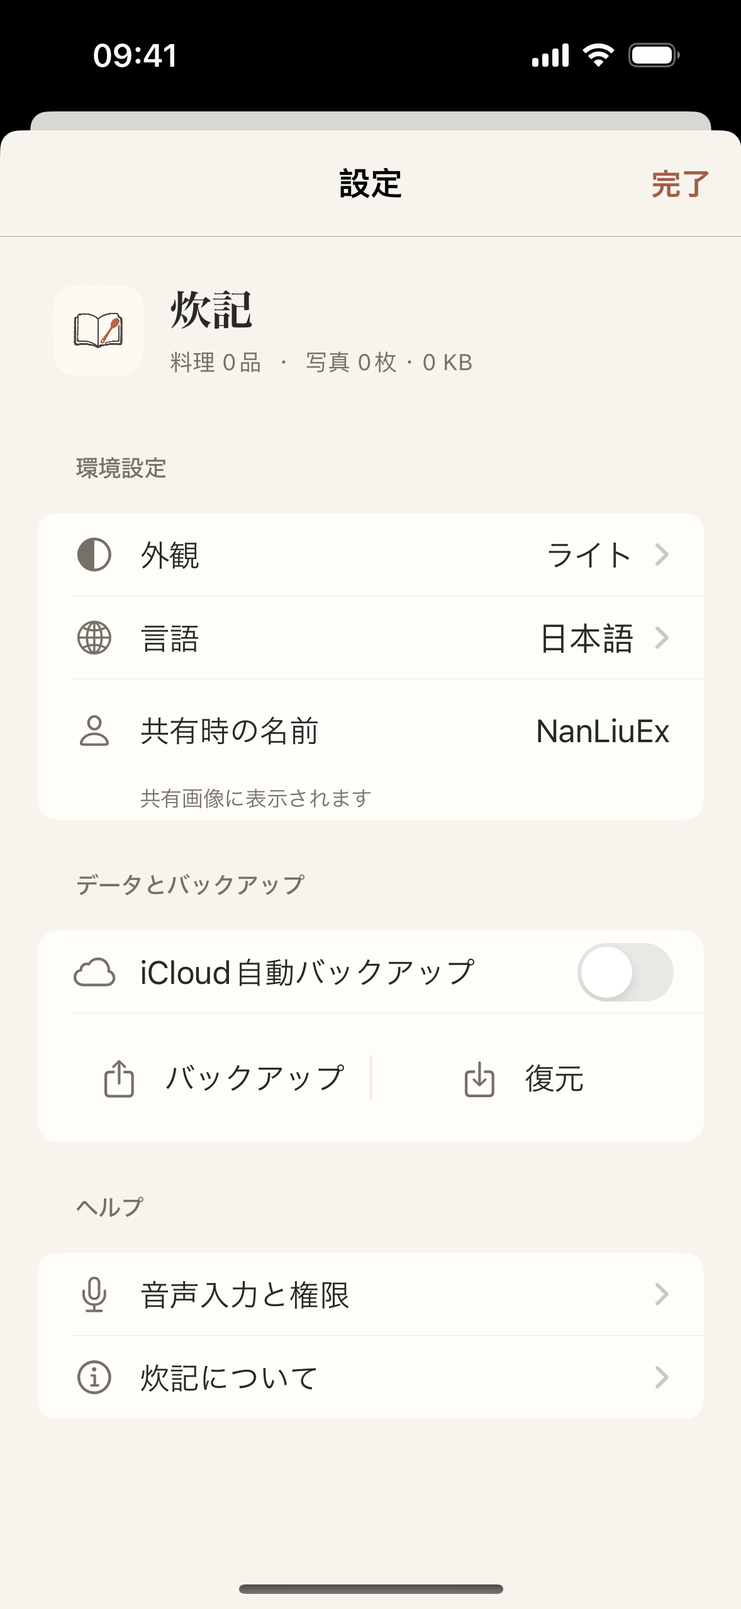
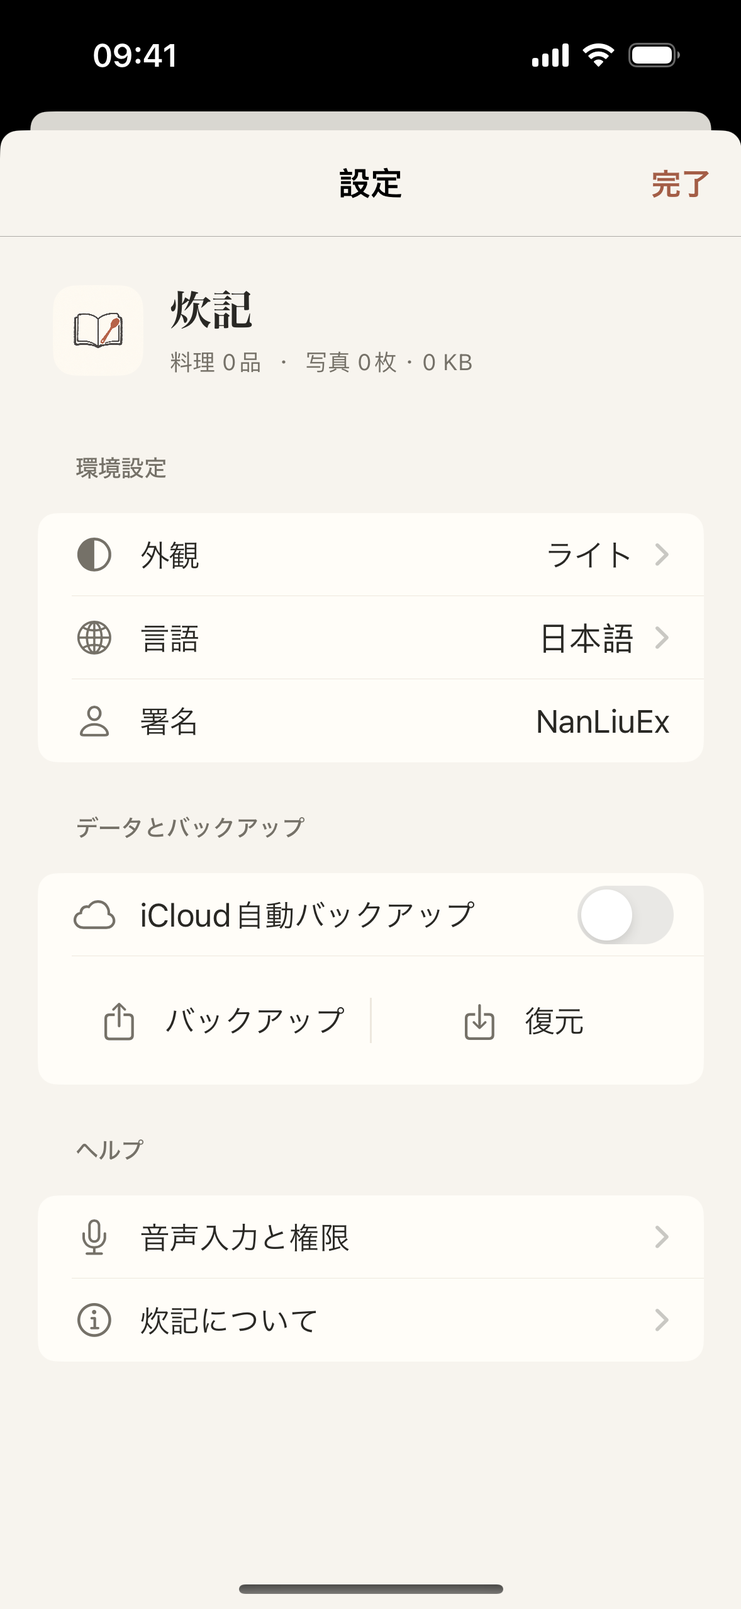
docs: refresh simplified signature settings

diff --git a/assets/site.js b/assets/site.js
@@ -1,4 +1,4 @@
-const copy = {"zh": {"name": "炊记", "nav": ["产品", "隐私", "支持"], "footer": "© 2026 liunangit · 炊记", "index": {"eyebrow": "一本自己的厨房笔记", "title": "记下拿手菜，\n留住自己的做法。", "lead": "一张照片，几行笔记。用量、火候和摸索出来的小心得，都留在自己的菜谱里。下次想做，再翻开。", "meta": "iPhone · iPad · iPhone Duo / iOS 17+ / 中文 · English · 日本語", "sections": [["照片与文字，恰到好处", "记录成品或过程照片，把配料、步骤和心得写在一处。主页用小图浏览，详情安静地阅读。"], ["想到就说出来", "按住说话时实时转文字，松开后直接校正。设备支持时仅使用本机识别，不保存录音，不切换到云端识别。"], ["自己的做法，随时找回", "搜索菜名或做法中的关键词，快速找回笔记。编辑同一道菜，不必重复记录。"], ["让一道菜被看见", "将菜名、照片与完整做法排成菜谱图片，再通过系统分享面板分享。长文会自动分页。 设置中的“分享署名”可填写最多8个字，名字显示在分享图片左上角的菜谱标记后；留空不显示。"], ["换设备，也带上菜谱", ".cuijibackup 备份把照片与文字一起打包。开启 iCloud 自动备份后，新增、编辑、删除都会更新同一份备份，其他设备开启后自动合并自己的菜谱。"], ["简洁，有自己的分寸", "暖纸色、克制的陶土色和清晰的阅读层次。支持深色、大字体和大屏双栏，不添加广告或社交流。"]], "note": "目前正在准备 App Store 上架。iCloud 为单份自动备份，并非双向实时同步；也可关闭 iCloud，自行导出和导入。本机语音需设备支持对应语言。", "screenshots": ["菜谱首页", "一道菜的做法", "简洁的设置与备份"]}, "privacy": {"eyebrow": "PRIVACY", "title": "隐私政策", "lead": "炊记尊重你的菜谱和生活记录。生效日期：2026 年 10 月 11 日。开发者：liunangit。", "sections": [["保存什么", "菜名、做法、照片和创建/更新日期默认保存在设备内。应用内的语言、外观偏好也保存在本机。无需注册应用账号。 分享署名也保存在本机，仅用于你主动分享的菜谱图片。"], ["开发者不收集你的菜谱", "炊记没有开发者运营的数据服务器，不加入广告、跟踪或第三方统计 SDK。我们不会主动收集、出售或公开你的菜谱内容。"], ["照片与语音权限", "仅在拍照、选图或语音输入时使用必要的系统接口。语音在支持设备上强制本机识别，原始录音不保存、不交给开发者服务器；不支持时使用文字输入。相册选择器仅交给应用你选中的照片。"], ["可选的 iCloud 备份", "只有你开启 iCloud 自动备份后，完整菜名、文字和照片才会自动写入自己的 iCloud Drive。新增、编辑、删除和导入会更新同一份备份。Apple 服务负责传输和保存，需 Apple 账户，并受 Apple 隐私政策与 iCloud 服务条款约束。关闭后停止后续上传，已有备份保留。"], ["分享与导出", "只有你选择分享或导出时，所选内容才会通过系统组件交给你选择的应用或文件位置。第三方接收应用的数据处理由其政策决定。从其他应用分享进来的文字和图片也保存在本机。当你主动分享网页或链接图片时，应用可能向原网页的图片地址发起 HTTPS 下载；该网站会按其政策处理请求，包括 IP 地址。炊记不向开发者发送这些内容。系统分享扩展仅接收你明确选择分享的内容。"], ["删除与管理", "可以编辑或删除单道菜，没有一键清空全部菜品。开启自动备份时，删除菜品也会更新云端当前备份。自行导出的副本独立保留，可在保存位置管理。卸载会移除本机数据，请先备份。 删除成功后，顶部提供3秒“撤回”，可恢复最近一次删除的菜品和照片；超时或重新打开应用后不可撤回。"], ["支持与政策更新", "若你通过 GitHub Issues 联系开发者，你提交的内容会按 GitHub 的政策处理；公开问题可能被其他人看到。请不要提交私人菜谱、照片、账号或备份文件。政策变化会在本页更新。"]]}, "support": {"eyebrow": "SUPPORT", "title": "支持与联系", "lead": "把菜谱用顺手，也把自己的做法留好。", "sections": [["快速开始", "点“记一个菜”，填菜名，选照片，再输入或口述做法。菜名是唯一必填项；保存后可以通过主页搜索回顾、编辑和分享。"], ["语音输入", "在录入页按住“按住说话”，文字实时出现；松开后可修改。上滑再松开取消这一段。首次使用请允许麦克风和语音识别权限，随后再次按住。需设备支持中、英或日本机识别；不可用时仍能打字记录。"], ["iCloud 备份与设备传输", "设置 → iCloud 自动备份，打开开关即可。新增、编辑、删除和文件导入后自动更新一份完整备份。其他设备使用同一 Apple 账户开启后，会先自动合并已有云端菜谱，再更新备份，无需手动选择。"], ["恢复与合并", "恢复会合并菜谱，保留本机已有内容。完全相同的数据不会重复导入；同一道菜的不同做法版本会分别保留。旧版 JSON 备份仍可导入。"], ["云备份没有出现", "检查 Apple 账户、iCloud Drive 和炊记权限、网络与空间。失败时保留待备份状态，应用运行或再次打开时自动重试，无需手动刷新。iOS 不保证强制退出后仍继续执行应用任务。切换账户后需重新开启开关。"], ["分享、照片与备份文件", "分享先生成图片并预览，再选择系统分享目标。备份与恢复位于设置页，可保存 .cuijibackup 文件，或从文件 App、AirDrop 打开。文件内含文字与原始照片，恢复上限为 150 MB。也可以在其他 App 的分享菜单中选择炊记，接收文字和图片，返回炊记后自动添加一道菜。网页对接支持 cuiji://share，完整单菜品文件使用 .cuijidish，重复分享允许新增同名菜品。 设置 → 偏好 → 分享署名，可填写最多8个字。行内提示“显示在分享图片上”，名字显示在图片左上角。"], ["联系开发者", "通过下方 GitHub Issues 提交问题或建议，附上应用版本、系统版本和复现步骤即可。请不要上传私人照片、菜谱、账号信息或完整备份文件。开发者：liunangit。"]]}}, "en": {"name": "Chui", "nav": ["Product", "Privacy", "Support"], "footer": "© 2026 liunangit · Chui", "index": {"eyebrow": "YOUR OWN KITCHEN NOTEBOOK", "title": "Keep the dishes you know.\nRemember your own method.", "lead": "A photo, a few notes. Keep quantities, heat and the little things you learned in your own recipe notebook. Open it again next time.", "meta": "iPhone · iPad · iPhone Duo / iOS 17+ / 中文 · English · 日本語", "sections": [["Photos and notes, in balance", "Save finished dishes or cooking steps with free-form text. Browse small thumbnails and read in a calm detail view."], ["Say it as you cook", "Hold to speak for live transcription, then release to correct the text. On supported devices, recognition stays on-device. Audio is not saved; no cloud recognition fallback."], ["Find your own method", "Search dish names or words in your notes. Update a dish in place instead of recording it again."], ["Share a dish beautifully", "Generate recipe images containing the name, photos and full method, then use the system share sheet. Long notes span multiple pages. Set a Sharing name of up to 8 characters in Settings. It appears after the recipe label at the top left of each shared image; leave it blank to omit it."], ["Take your notebook with you", "A .cuijibackup archive contains photos and notes together. Enable automatic iCloud backup to update one file after additions, edits and deletions. Other devices merge your cloud recipes when enabled."], ["Quiet, considered design", "Warm paper tones, restrained accents, dark mode, larger text and two-column navigation on larger screens. No ads or social feed."]], "note": "Preparing for App Store release. iCloud keeps one automatic backup, rather than live two-way sync. You can leave iCloud off and export or import files. Voice input requires device support for the selected language.", "screenshots": ["Your recipe collection", "Your own method", "Settings and backup"]}, "privacy": {"eyebrow": "PRIVACY", "title": "Privacy policy", "lead": "Your recipes belong to you. Effective October 11, 2026. Developer: liunangit.", "sections": [["What is stored", "Dish names, methods, photos and creation/update dates are stored on your device by default. Language and appearance preferences are also local. No app account is required. Your sharing name is stored on the device and is used only on recipe images you choose to share."], ["We do not collect your recipes", "Chui has no developer-operated data server, advertisements, tracking or third-party analytics SDKs. We do not proactively collect, sell or publish your recipe content."], ["Photos and speech", "System permissions are used when you take photos, choose images or dictate. Speech recognition is forced on-device when supported. Audio is not saved or sent to developer servers. Otherwise you can type. The system photo picker provides only selected images."], ["Optional iCloud backups", "Only after you turn on automatic iCloud backup are complete recipe names, notes and photos saved to your own iCloud Drive. Additions, edits, deletions and imports update one backup. Apple handles storage and transfer under its privacy policy and iCloud terms; an Apple Account is required. Turning it off stops future uploads and keeps the existing backup."], ["Sharing and exporting", "Content is passed to the app or file location you select only when you choose to share or export. Third-party recipients handle data under their own policies.Text and images shared from other apps are also stored locally. When you choose to share a webpage or linked image, the app may download images over HTTPS from the source website. That website handles the request, including your IP address, under its own policy. Chui does not send this content to the developer. The share extension only receives content you explicitly choose to share."], ["Managing and deleting data", "You can edit or delete individual dishes; there is no bulk-clear action. While automatic backup is on, deletions also update the current cloud backup. Exported copies remain independent and can be managed at their saved location. Back up before uninstalling, which removes local app data. After deletion, a small Undo button appears at the top for 3 seconds to restore the most recently deleted dish and its photos. Undo is unavailable after the deadline or relaunch."], ["Support and updates", "GitHub processes support submissions according to its policies. Public issues may be visible to others; do not include private recipes, photos, account information or backup files. Policy updates will appear here."]]}, "support": {"eyebrow": "SUPPORT", "title": "Support and contact", "lead": "A little help for your own kitchen notebook.", "sections": [["Getting started", "Tap Add a dish, enter a name, choose photos and type or dictate your method. Only a name is required. Search, edit and share saved dishes from the home view."], ["Speech input", "Hold to speak for live text. Release to edit, or slide up and release to cancel that segment. Allow microphone and speech permissions when first asked, then hold again. Chinese, English and Japanese require supported on-device recognition. Typing remains available."], ["iCloud backup and transfer", "Settings → Automatic iCloud backup: turn the switch on. Additions, edits, deletions and file imports update one complete backup. On another device with the same Apple Account, existing cloud recipes are merged automatically before the backup is updated. No manual choice is needed."], ["Restoring and merging", "Restore merges recipes and keeps existing local content. Identical data is not imported twice; differing versions of a dish are kept separately. Older JSON backups remain compatible."], ["A cloud backup is missing", "Check your Apple Account, iCloud Drive permission, network and available space. Failed work remains pending and retries while the app runs or when you open it again; no refresh button is needed. iOS does not guarantee app work after force-quitting. Turn the switch on again after changing Apple Accounts."], ["Photos, sharing and files", "Preview recipe images and choose a system sharing destination. Settings offers Backup and Restore. Save .cuijibackup files or open them from Files or AirDrop. Each archive contains notes and original photos; the restore limit is 150 MB.You can also select Chui in another app’s share menu to receive text and images. Return to Chui to add the dish automatically. Web integrations use cuiji://share; a complete single-dish file uses .cuijidish. Repeated shares can create dishes with the same name. Set a Sharing name of up to 8 characters under Settings → Preferences. The hint “Shown on shared images” explains its use; the name appears at the top left."], ["Contact the developer", "Use GitHub Issues below with the app version, system version and steps to reproduce. Do not include private photos, recipes, account information or complete backups. Developer: liunangit."]]}}, "ja": {"name": "炊記", "nav": ["製品", "プライバシー", "サポート"], "footer": "© 2026 liunangit · 炊記", "index": {"eyebrow": "自分の台所ノート", "title": "得意な料理を記して、\n自分の作り方を残す。", "lead": "写真一枚、メモ数行。分量、火加減、作りながら気づいたことを、自分だけのレシピに。次に作るとき、また開きましょう。", "meta": "iPhone · iPad · iPhone Duo / iOS 17+ / 中文 · English · 日本語", "sections": [["写真と文字を、ほどよく", "完成した料理や調理中の写真と、自由な文章を保存。小さなサムネイルで探し、落ち着いた詳細画面で読み返せます。"], ["思いついたら、そのまま話す", "長押し中に文字が表示され、指を離して修正できます。対応端末では端末内のみで認識し、録音を保存せず、クラウド認識に切り替えません。"], ["自分の作り方を見つける", "料理名や本文のキーワードで検索。同じ料理を編集でき、何度も登録する必要はありません。"], ["一品を、きれいに共有", "料理名、写真、作り方の全文を画像にして、システムの共有画面から送れます。長い文章は複数ページになります。 設定の「共有時の名前」に8文字まで入力すると、共有画像の左上のレシピ表記に名前が続きます。空欄なら表示しません。"], ["機種を替えても、レシピと一緒", ".cuijibackup ファイルに写真と文章をまとめて保存します。iCloud自動バックアップをオンにすると、追加・編集・削除時に一つのファイルを更新します。別の端末でオンにするとクラウドの料理を自動で追加します。"], ["静かで、使いやすいデザイン", "紙のような色、控えめなアクセント。ダークモード、大きな文字、大画面の二列表示に対応。広告やソーシャルフィードはありません。"]], "note": "App Store公開に向けて準備中です。iCloudは一つの自動バックアップで、双方向のリアルタイム同期ではありません。オフのままファイルを書き出し・読み込みできます。音声入力は端末の対応が必要です。", "screenshots": ["自分の料理ノート", "自分の作り方", "設定とバックアップ"]}, "privacy": {"eyebrow": "PRIVACY", "title": "プライバシーポリシー", "lead": "あなたのレシピは、あなたのものです。適用日：2026年10月11日。開発者：liunangit。", "sections": [["保存する情報", "料理名、作り方、写真、作成・更新日時を標準で端末内に保存します。言語や外観の設定も端末内に保存し、アプリ用アカウントは不要です。 共有時の名前も端末内に保存し、自分で共有するレシピ画像にのみ使用します。"], ["開発者はレシピを収集しません", "開発者が運営するデータサーバー、広告、追跡、第三者の解析 SDK はありません。レシピを自動収集・販売・公開しません。"], ["写真と音声の権限", "撮影、写真選択、音声入力の際に必要なシステム機能を使います。対応端末では端末内認識を強制し、音声を保存したり開発者サーバーへ送ったりしません。非対応時は文字入力を利用できます。写真選択器は選んだ写真のみをアプリへ渡します。"], ["任意の iCloud バックアップ", "iCloud自動バックアップをオンにした場合のみ、料理名・全文・写真を自分のiCloud Driveへ自動保存します。追加・編集・削除・読み込み時に一つのバックアップを更新します。Appleが同社のポリシーとiCloud規約に従って保存・転送し、Apple Accountが必要です。オフにすると以後のアップロードを停止し、既存のバックアップは保持します。"], ["共有と書き出し", "共有や書き出しを選んだときのみ、選択したアプリや保存先へ内容を渡します。受信先の取り扱いは各サービスのポリシーに従います。ほかのアプリから共有した文章や写真も端末内に保存します。ウェブページや画像リンクを共有すると、元のサイトからHTTPSで画像をダウンロードする場合があります。IPアドレスを含むリクエストはそのサイトのポリシーに従って扱われます。炊記は内容を開発者に送信せず、共有拡張はあなたが選んだ内容のみを受け取ります。"], ["管理と削除", "料理ごとの編集・削除ができます。一括消去はありません。自動バックアップがオンの場合、削除も現在のクラウドバックアップに反映します。書き出した副本は独立して残り、保存先で管理できます。アンインストール前にバックアップしてください。 削除後、上部に「元に戻す」が3秒間表示され、直前に削除した料理と写真を戻せます。期限後やアプリの再起動後は取り消せません。"], ["サポートと更新", "GitHub への問い合わせ内容は同社のポリシーに従って扱われ、公開 Issue はほかの人も閲覧できます。個人のレシピ、写真、アカウント情報、バックアップを投稿しないでください。更新は本ページに掲載します。"]]}, "support": {"eyebrow": "SUPPORT", "title": "サポート・お問い合わせ", "lead": "自分の台所ノートを、使いやすく。", "sections": [["はじめに", "「料理を記録」から料理名、写真、作り方を入力・音声入力して保存します。料理名だけでも保存でき、ホームから検索・編集・共有できます。"], ["音声入力", "長押し中に文字が表示され、離して修正できます。上にスライドして離すと取り消します。初回はマイクと音声認識を許可して、再度長押ししてください。中・英・日の端末内認識に対応する実機が必要で、文字入力も利用できます。"], ["iCloud バックアップと移行", "設定 → iCloud自動バックアップをオンにします。追加・編集・削除・読み込み時に一つのバックアップを更新します。同じApple Accountの別の端末ではクラウドの料理を自動で追加してから更新し、手動で選ぶ必要はありません。"], ["復元と追加", "復元は端末の料理を残して追加します。同じ内容は重複せず、同じ料理でも異なる作り方はそれぞれ残ります。旧JSONバックアップも読み込めます。"], ["バックアップが見つからない", "Apple Account、iCloud Driveの権限、ネット接続と空き容量を確認してください。失敗した処理は保留し、アプリの使用中または再度開いたときに自動再試行します。手動更新は不要です。強制終了後の継続処理は保証されません。アカウント変更後は再度オンにしてください。"], ["写真・共有・ファイル", "画像を確認してから共有先を選びます。設定からバックアップ・復元できます。.cuijibackup ファイルを保存し、ファイルAppやAirDropから開けます。文章と元の写真が含まれ、復元上限は150 MBです。ほかのアプリの共有メニューで炊記を選び、文章や写真を受け取れます。炊記に戻ると自動で一品を追加します。ウェブ連携はcuiji://share、一品の完全なファイルは.cuijidishです。同名の料理を繰り返し共有できます。 設定 → 環境設定 → 共有時の名前に8文字まで入力できます。「共有画像に表示されます」のヒントを添え、名前は画像の左上に表示します。"], ["開発者への連絡", "下の GitHub Issues にアプリとシステムのバージョン、再現手順を添えてください。個人の写真、レシピ、アカウント、バックアップは投稿しないでください。開発者：liunangit。"]]}}};
+const copy = {"zh": {"name": "炊记", "nav": ["产品", "隐私", "支持"], "footer": "© 2026 liunangit · 炊记", "index": {"eyebrow": "一本自己的厨房笔记", "title": "记下拿手菜，\n留住自己的做法。", "lead": "一张照片，几行笔记。用量、火候和摸索出来的小心得，都留在自己的菜谱里。下次想做，再翻开。", "meta": "iPhone · iPad · iPhone Duo / iOS 17+ / 中文 · English · 日本語", "sections": [["照片与文字，恰到好处", "记录成品或过程照片，把配料、步骤和心得写在一处。主页用小图浏览，详情安静地阅读。"], ["想到就说出来", "按住说话时实时转文字，松开后直接校正。设备支持时仅使用本机识别，不保存录音，不切换到云端识别。"], ["自己的做法，随时找回", "搜索菜名或做法中的关键词，快速找回笔记。编辑同一道菜，不必重复记录。"], ["让一道菜被看见", "将菜名、照片与完整做法排成菜谱图片，再通过系统分享面板分享。长文会自动分页。 设置中的“署名”可填写最多8个字，名字显示在分享图片左上角的菜谱标记后；留空不显示。"], ["换设备，也带上菜谱", ".cuijibackup 备份把照片与文字一起打包。开启 iCloud 自动备份后，新增、编辑、删除都会更新同一份备份，其他设备开启后自动合并自己的菜谱。"], ["简洁，有自己的分寸", "暖纸色、克制的陶土色和清晰的阅读层次。支持深色、大字体和大屏双栏，不添加广告或社交流。"]], "note": "目前正在准备 App Store 上架。iCloud 为单份自动备份，并非双向实时同步；也可关闭 iCloud，自行导出和导入。本机语音需设备支持对应语言。", "screenshots": ["菜谱首页", "一道菜的做法", "简洁的设置与备份"]}, "privacy": {"eyebrow": "PRIVACY", "title": "隐私政策", "lead": "炊记尊重你的菜谱和生活记录。生效日期：2026 年 10 月 11 日。开发者：liunangit。", "sections": [["保存什么", "菜名、做法、照片和创建/更新日期默认保存在设备内。应用内的语言、外观偏好也保存在本机。无需注册应用账号。 分享署名也保存在本机，仅用于你主动分享的菜谱图片。"], ["开发者不收集你的菜谱", "炊记没有开发者运营的数据服务器，不加入广告、跟踪或第三方统计 SDK。我们不会主动收集、出售或公开你的菜谱内容。"], ["照片与语音权限", "仅在拍照、选图或语音输入时使用必要的系统接口。语音在支持设备上强制本机识别，原始录音不保存、不交给开发者服务器；不支持时使用文字输入。相册选择器仅交给应用你选中的照片。"], ["可选的 iCloud 备份", "只有你开启 iCloud 自动备份后，完整菜名、文字和照片才会自动写入自己的 iCloud Drive。新增、编辑、删除和导入会更新同一份备份。Apple 服务负责传输和保存，需 Apple 账户，并受 Apple 隐私政策与 iCloud 服务条款约束。关闭后停止后续上传，已有备份保留。"], ["分享与导出", "只有你选择分享或导出时，所选内容才会通过系统组件交给你选择的应用或文件位置。第三方接收应用的数据处理由其政策决定。从其他应用分享进来的文字和图片也保存在本机。当你主动分享网页或链接图片时，应用可能向原网页的图片地址发起 HTTPS 下载；该网站会按其政策处理请求，包括 IP 地址。炊记不向开发者发送这些内容。系统分享扩展仅接收你明确选择分享的内容。"], ["删除与管理", "可以编辑或删除单道菜，没有一键清空全部菜品。开启自动备份时，删除菜品也会更新云端当前备份。自行导出的副本独立保留，可在保存位置管理。卸载会移除本机数据，请先备份。 删除成功后，顶部提供3秒“撤回”，可恢复最近一次删除的菜品和照片；超时或重新打开应用后不可撤回。"], ["支持与政策更新", "若你通过 GitHub Issues 联系开发者，你提交的内容会按 GitHub 的政策处理；公开问题可能被其他人看到。请不要提交私人菜谱、照片、账号或备份文件。政策变化会在本页更新。"]]}, "support": {"eyebrow": "SUPPORT", "title": "支持与联系", "lead": "把菜谱用顺手，也把自己的做法留好。", "sections": [["快速开始", "点“记一个菜”，填菜名，选照片，再输入或口述做法。菜名是唯一必填项；保存后可以通过主页搜索回顾、编辑和分享。"], ["语音输入", "在录入页按住“按住说话”，文字实时出现；松开后可修改。上滑再松开取消这一段。首次使用请允许麦克风和语音识别权限，随后再次按住。需设备支持中、英或日本机识别；不可用时仍能打字记录。"], ["iCloud 备份与设备传输", "设置 → iCloud 自动备份，打开开关即可。新增、编辑、删除和文件导入后自动更新一份完整备份。其他设备使用同一 Apple 账户开启后，会先自动合并已有云端菜谱，再更新备份，无需手动选择。"], ["恢复与合并", "恢复会合并菜谱，保留本机已有内容。完全相同的数据不会重复导入；同一道菜的不同做法版本会分别保留。旧版 JSON 备份仍可导入。"], ["云备份没有出现", "检查 Apple 账户、iCloud Drive 和炊记权限、网络与空间。失败时保留待备份状态，应用运行或再次打开时自动重试，无需手动刷新。iOS 不保证强制退出后仍继续执行应用任务。切换账户后需重新开启开关。"], ["分享、照片与备份文件", "分享先生成图片并预览，再选择系统分享目标。备份与恢复位于设置页，可保存 .cuijibackup 文件，或从文件 App、AirDrop 打开。文件内含文字与原始照片，恢复上限为 150 MB。也可以在其他 App 的分享菜单中选择炊记，接收文字和图片，返回炊记后自动添加一道菜。网页对接支持 cuiji://share，完整单菜品文件使用 .cuijidish，重复分享允许新增同名菜品。 设置 → 偏好 → 署名，可填写最多8个字。名字显示在分享图片左上角。"], ["联系开发者", "通过下方 GitHub Issues 提交问题或建议，附上应用版本、系统版本和复现步骤即可。请不要上传私人照片、菜谱、账号信息或完整备份文件。开发者：liunangit。"]]}}, "en": {"name": "Chui", "nav": ["Product", "Privacy", "Support"], "footer": "© 2026 liunangit · Chui", "index": {"eyebrow": "YOUR OWN KITCHEN NOTEBOOK", "title": "Keep the dishes you know.\nRemember your own method.", "lead": "A photo, a few notes. Keep quantities, heat and the little things you learned in your own recipe notebook. Open it again next time.", "meta": "iPhone · iPad · iPhone Duo / iOS 17+ / 中文 · English · 日本語", "sections": [["Photos and notes, in balance", "Save finished dishes or cooking steps with free-form text. Browse small thumbnails and read in a calm detail view."], ["Say it as you cook", "Hold to speak for live transcription, then release to correct the text. On supported devices, recognition stays on-device. Audio is not saved; no cloud recognition fallback."], ["Find your own method", "Search dish names or words in your notes. Update a dish in place instead of recording it again."], ["Share a dish beautifully", "Generate recipe images containing the name, photos and full method, then use the system share sheet. Long notes span multiple pages. Set a Signature of up to 8 characters in Settings. It appears after the recipe label at the top left of each shared image; leave it blank to omit it."], ["Take your notebook with you", "A .cuijibackup archive contains photos and notes together. Enable automatic iCloud backup to update one file after additions, edits and deletions. Other devices merge your cloud recipes when enabled."], ["Quiet, considered design", "Warm paper tones, restrained accents, dark mode, larger text and two-column navigation on larger screens. No ads or social feed."]], "note": "Preparing for App Store release. iCloud keeps one automatic backup, rather than live two-way sync. You can leave iCloud off and export or import files. Voice input requires device support for the selected language.", "screenshots": ["Your recipe collection", "Your own method", "Settings and backup"]}, "privacy": {"eyebrow": "PRIVACY", "title": "Privacy policy", "lead": "Your recipes belong to you. Effective October 11, 2026. Developer: liunangit.", "sections": [["What is stored", "Dish names, methods, photos and creation/update dates are stored on your device by default. Language and appearance preferences are also local. No app account is required. Your sharing name is stored on the device and is used only on recipe images you choose to share."], ["We do not collect your recipes", "Chui has no developer-operated data server, advertisements, tracking or third-party analytics SDKs. We do not proactively collect, sell or publish your recipe content."], ["Photos and speech", "System permissions are used when you take photos, choose images or dictate. Speech recognition is forced on-device when supported. Audio is not saved or sent to developer servers. Otherwise you can type. The system photo picker provides only selected images."], ["Optional iCloud backups", "Only after you turn on automatic iCloud backup are complete recipe names, notes and photos saved to your own iCloud Drive. Additions, edits, deletions and imports update one backup. Apple handles storage and transfer under its privacy policy and iCloud terms; an Apple Account is required. Turning it off stops future uploads and keeps the existing backup."], ["Sharing and exporting", "Content is passed to the app or file location you select only when you choose to share or export. Third-party recipients handle data under their own policies.Text and images shared from other apps are also stored locally. When you choose to share a webpage or linked image, the app may download images over HTTPS from the source website. That website handles the request, including your IP address, under its own policy. Chui does not send this content to the developer. The share extension only receives content you explicitly choose to share."], ["Managing and deleting data", "You can edit or delete individual dishes; there is no bulk-clear action. While automatic backup is on, deletions also update the current cloud backup. Exported copies remain independent and can be managed at their saved location. Back up before uninstalling, which removes local app data. After deletion, a small Undo button appears at the top for 3 seconds to restore the most recently deleted dish and its photos. Undo is unavailable after the deadline or relaunch."], ["Support and updates", "GitHub processes support submissions according to its policies. Public issues may be visible to others; do not include private recipes, photos, account information or backup files. Policy updates will appear here."]]}, "support": {"eyebrow": "SUPPORT", "title": "Support and contact", "lead": "A little help for your own kitchen notebook.", "sections": [["Getting started", "Tap Add a dish, enter a name, choose photos and type or dictate your method. Only a name is required. Search, edit and share saved dishes from the home view."], ["Speech input", "Hold to speak for live text. Release to edit, or slide up and release to cancel that segment. Allow microphone and speech permissions when first asked, then hold again. Chinese, English and Japanese require supported on-device recognition. Typing remains available."], ["iCloud backup and transfer", "Settings → Automatic iCloud backup: turn the switch on. Additions, edits, deletions and file imports update one complete backup. On another device with the same Apple Account, existing cloud recipes are merged automatically before the backup is updated. No manual choice is needed."], ["Restoring and merging", "Restore merges recipes and keeps existing local content. Identical data is not imported twice; differing versions of a dish are kept separately. Older JSON backups remain compatible."], ["A cloud backup is missing", "Check your Apple Account, iCloud Drive permission, network and available space. Failed work remains pending and retries while the app runs or when you open it again; no refresh button is needed. iOS does not guarantee app work after force-quitting. Turn the switch on again after changing Apple Accounts."], ["Photos, sharing and files", "Preview recipe images and choose a system sharing destination. Settings offers Backup and Restore. Save .cuijibackup files or open them from Files or AirDrop. Each archive contains notes and original photos; the restore limit is 150 MB.You can also select Chui in another app’s share menu to receive text and images. Return to Chui to add the dish automatically. Web integrations use cuiji://share; a complete single-dish file uses .cuijidish. Repeated shares can create dishes with the same name. Set a Signature of up to 8 characters under Settings → Preferences. The name appears at the top left of shared images."], ["Contact the developer", "Use GitHub Issues below with the app version, system version and steps to reproduce. Do not include private photos, recipes, account information or complete backups. Developer: liunangit."]]}}, "ja": {"name": "炊記", "nav": ["製品", "プライバシー", "サポート"], "footer": "© 2026 liunangit · 炊記", "index": {"eyebrow": "自分の台所ノート", "title": "得意な料理を記して、\n自分の作り方を残す。", "lead": "写真一枚、メモ数行。分量、火加減、作りながら気づいたことを、自分だけのレシピに。次に作るとき、また開きましょう。", "meta": "iPhone · iPad · iPhone Duo / iOS 17+ / 中文 · English · 日本語", "sections": [["写真と文字を、ほどよく", "完成した料理や調理中の写真と、自由な文章を保存。小さなサムネイルで探し、落ち着いた詳細画面で読み返せます。"], ["思いついたら、そのまま話す", "長押し中に文字が表示され、指を離して修正できます。対応端末では端末内のみで認識し、録音を保存せず、クラウド認識に切り替えません。"], ["自分の作り方を見つける", "料理名や本文のキーワードで検索。同じ料理を編集でき、何度も登録する必要はありません。"], ["一品を、きれいに共有", "料理名、写真、作り方の全文を画像にして、システムの共有画面から送れます。長い文章は複数ページになります。 設定の「署名」に8文字まで入力すると、共有画像の左上のレシピ表記に名前が続きます。空欄なら表示しません。"], ["機種を替えても、レシピと一緒", ".cuijibackup ファイルに写真と文章をまとめて保存します。iCloud自動バックアップをオンにすると、追加・編集・削除時に一つのファイルを更新します。別の端末でオンにするとクラウドの料理を自動で追加します。"], ["静かで、使いやすいデザイン", "紙のような色、控えめなアクセント。ダークモード、大きな文字、大画面の二列表示に対応。広告やソーシャルフィードはありません。"]], "note": "App Store公開に向けて準備中です。iCloudは一つの自動バックアップで、双方向のリアルタイム同期ではありません。オフのままファイルを書き出し・読み込みできます。音声入力は端末の対応が必要です。", "screenshots": ["自分の料理ノート", "自分の作り方", "設定とバックアップ"]}, "privacy": {"eyebrow": "PRIVACY", "title": "プライバシーポリシー", "lead": "あなたのレシピは、あなたのものです。適用日：2026年10月11日。開発者：liunangit。", "sections": [["保存する情報", "料理名、作り方、写真、作成・更新日時を標準で端末内に保存します。言語や外観の設定も端末内に保存し、アプリ用アカウントは不要です。 共有時の名前も端末内に保存し、自分で共有するレシピ画像にのみ使用します。"], ["開発者はレシピを収集しません", "開発者が運営するデータサーバー、広告、追跡、第三者の解析 SDK はありません。レシピを自動収集・販売・公開しません。"], ["写真と音声の権限", "撮影、写真選択、音声入力の際に必要なシステム機能を使います。対応端末では端末内認識を強制し、音声を保存したり開発者サーバーへ送ったりしません。非対応時は文字入力を利用できます。写真選択器は選んだ写真のみをアプリへ渡します。"], ["任意の iCloud バックアップ", "iCloud自動バックアップをオンにした場合のみ、料理名・全文・写真を自分のiCloud Driveへ自動保存します。追加・編集・削除・読み込み時に一つのバックアップを更新します。Appleが同社のポリシーとiCloud規約に従って保存・転送し、Apple Accountが必要です。オフにすると以後のアップロードを停止し、既存のバックアップは保持します。"], ["共有と書き出し", "共有や書き出しを選んだときのみ、選択したアプリや保存先へ内容を渡します。受信先の取り扱いは各サービスのポリシーに従います。ほかのアプリから共有した文章や写真も端末内に保存します。ウェブページや画像リンクを共有すると、元のサイトからHTTPSで画像をダウンロードする場合があります。IPアドレスを含むリクエストはそのサイトのポリシーに従って扱われます。炊記は内容を開発者に送信せず、共有拡張はあなたが選んだ内容のみを受け取ります。"], ["管理と削除", "料理ごとの編集・削除ができます。一括消去はありません。自動バックアップがオンの場合、削除も現在のクラウドバックアップに反映します。書き出した副本は独立して残り、保存先で管理できます。アンインストール前にバックアップしてください。 削除後、上部に「元に戻す」が3秒間表示され、直前に削除した料理と写真を戻せます。期限後やアプリの再起動後は取り消せません。"], ["サポートと更新", "GitHub への問い合わせ内容は同社のポリシーに従って扱われ、公開 Issue はほかの人も閲覧できます。個人のレシピ、写真、アカウント情報、バックアップを投稿しないでください。更新は本ページに掲載します。"]]}, "support": {"eyebrow": "SUPPORT", "title": "サポート・お問い合わせ", "lead": "自分の台所ノートを、使いやすく。", "sections": [["はじめに", "「料理を記録」から料理名、写真、作り方を入力・音声入力して保存します。料理名だけでも保存でき、ホームから検索・編集・共有できます。"], ["音声入力", "長押し中に文字が表示され、離して修正できます。上にスライドして離すと取り消します。初回はマイクと音声認識を許可して、再度長押ししてください。中・英・日の端末内認識に対応する実機が必要で、文字入力も利用できます。"], ["iCloud バックアップと移行", "設定 → iCloud自動バックアップをオンにします。追加・編集・削除・読み込み時に一つのバックアップを更新します。同じApple Accountの別の端末ではクラウドの料理を自動で追加してから更新し、手動で選ぶ必要はありません。"], ["復元と追加", "復元は端末の料理を残して追加します。同じ内容は重複せず、同じ料理でも異なる作り方はそれぞれ残ります。旧JSONバックアップも読み込めます。"], ["バックアップが見つからない", "Apple Account、iCloud Driveの権限、ネット接続と空き容量を確認してください。失敗した処理は保留し、アプリの使用中または再度開いたときに自動再試行します。手動更新は不要です。強制終了後の継続処理は保証されません。アカウント変更後は再度オンにしてください。"], ["写真・共有・ファイル", "画像を確認してから共有先を選びます。設定からバックアップ・復元できます。.cuijibackup ファイルを保存し、ファイルAppやAirDropから開けます。文章と元の写真が含まれ、復元上限は150 MBです。ほかのアプリの共有メニューで炊記を選び、文章や写真を受け取れます。炊記に戻ると自動で一品を追加します。ウェブ連携はcuiji://share、一品の完全なファイルは.cuijidishです。同名の料理を繰り返し共有できます。 設定 → 環境設定 → 署名に8文字まで入力できます。名前は共有画像の左上に表示します。"], ["開発者への連絡", "下の GitHub Issues にアプリとシステムのバージョン、再現手順を添えてください。個人の写真、レシピ、アカウント、バックアップは投稿しないでください。開発者：liunangit。"]]}}};
 
 const page = document.body.dataset.page;
 const select = document.querySelector('select');

diff --git a/support.html b/support.html
@@ -1,1 +1,1 @@
-<!doctype html><html lang="zh-Hans"><head><meta charset="UTF-8"><meta name="viewport" content="width=device-width, initial-scale=1"><meta name="description" content="炊记 — 记录自己的菜品与做法。产品介绍、隐私政策与技术支持。"><title>支持与联系 · 炊记</title><link rel="icon" href="assets/icon.png"><link rel="stylesheet" href="assets/style.css"></head><body data-page="support"><header><a class="brand" href="index.html"><img src="assets/icon.png" width="44" height="44" alt=""><span id="brand">炊记</span></a><nav aria-label="页面导航"><a href="index.html">产品</a><a href="privacy.html">隐私</a><a href="support.html">支持</a></nav><select aria-label="语言 / Language / 言語"><option value="zh">中文</option><option value="en">English</option><option value="ja">日本語</option></select></header><main><div class="intro"><p class="eyebrow">SUPPORT</p><h1>支持与联系</h1><p class="lead">把菜谱用顺手，也把自己的做法留好。</p><p class="meta"></p></div><section class="content"><article><h2>快速开始</h2><p>点“记一个菜”，填菜名，选照片，再输入或口述做法。菜名是唯一必填项；保存后可以通过主页搜索回顾、编辑和分享。</p></article><article><h2>语音输入</h2><p>在录入页按住“按住说话”，文字实时出现；松开后可修改。上滑再松开取消这一段。首次使用请允许麦克风和语音识别权限，随后再次按住。需设备支持中、英或日本机识别；不可用时仍能打字记录。</p></article><article><h2>iCloud 备份与设备传输</h2><p>设置 → iCloud 自动备份，打开开关即可。新增、编辑、删除和文件导入后自动更新一份完整备份。其他设备使用同一 Apple 账户开启后，会先自动合并已有云端菜谱，再更新备份，无需手动选择。</p></article><article><h2>恢复与合并</h2><p>恢复会合并菜谱，保留本机已有内容。完全相同的数据不会重复导入；同一道菜的不同做法版本会分别保留。旧版 JSON 备份仍可导入。</p></article><article><h2>云备份没有出现</h2><p>检查 Apple 账户、iCloud Drive 和炊记权限、网络与空间。失败时保留待备份状态，应用运行或再次打开时自动重试，无需手动刷新。iOS 不保证强制退出后仍继续执行应用任务。切换账户后需重新开启开关。</p></article><article><h2>分享、照片与备份文件</h2><p>分享先生成图片并预览，再选择系统分享目标。备份与恢复位于设置页，可保存 .cuijibackup 文件，或从文件 App、AirDrop 打开。文件内含文字与原始照片，恢复上限为 150 MB。也可以在其他 App 的分享菜单中选择炊记，接收文字和图片，返回炊记后自动添加一道菜。网页对接支持 cuiji://share，完整单菜品文件使用 .cuijidish，重复分享允许新增同名菜品。 设置 → 偏好 → 分享署名，可填写最多8个字。行内提示“显示在分享图片上”，名字显示在图片左上角。</p></article><article><h2>联系开发者</h2><p>通过下方 GitHub Issues 提交问题或建议，附上应用版本、系统版本和复现步骤即可。请不要上传私人照片、菜谱、账号信息或完整备份文件。开发者：liunangit。</p></article></section><a class="button contact" href="https://github.com/liunangit/cuiji-pages/issues">GitHub Issues →</a><p class="note"><a href="share-protocol.html">菜品分享协议 / Share protocol / 共有仕様</a></p></main><footer>© 2026 liunangit · 炊记</footer><script src="assets/site.js"></script></body></html>
+<!doctype html><html lang="zh-Hans"><head><meta charset="UTF-8"><meta name="viewport" content="width=device-width, initial-scale=1"><meta name="description" content="炊记 — 记录自己的菜品与做法。产品介绍、隐私政策与技术支持。"><title>支持与联系 · 炊记</title><link rel="icon" href="assets/icon.png"><link rel="stylesheet" href="assets/style.css"></head><body data-page="support"><header><a class="brand" href="index.html"><img src="assets/icon.png" width="44" height="44" alt=""><span id="brand">炊记</span></a><nav aria-label="页面导航"><a href="index.html">产品</a><a href="privacy.html">隐私</a><a href="support.html">支持</a></nav><select aria-label="语言 / Language / 言語"><option value="zh">中文</option><option value="en">English</option><option value="ja">日本語</option></select></header><main><div class="intro"><p class="eyebrow">SUPPORT</p><h1>支持与联系</h1><p class="lead">把菜谱用顺手，也把自己的做法留好。</p><p class="meta"></p></div><section class="content"><article><h2>快速开始</h2><p>点“记一个菜”，填菜名，选照片，再输入或口述做法。菜名是唯一必填项；保存后可以通过主页搜索回顾、编辑和分享。</p></article><article><h2>语音输入</h2><p>在录入页按住“按住说话”，文字实时出现；松开后可修改。上滑再松开取消这一段。首次使用请允许麦克风和语音识别权限，随后再次按住。需设备支持中、英或日本机识别；不可用时仍能打字记录。</p></article><article><h2>iCloud 备份与设备传输</h2><p>设置 → iCloud 自动备份，打开开关即可。新增、编辑、删除和文件导入后自动更新一份完整备份。其他设备使用同一 Apple 账户开启后，会先自动合并已有云端菜谱，再更新备份，无需手动选择。</p></article><article><h2>恢复与合并</h2><p>恢复会合并菜谱，保留本机已有内容。完全相同的数据不会重复导入；同一道菜的不同做法版本会分别保留。旧版 JSON 备份仍可导入。</p></article><article><h2>云备份没有出现</h2><p>检查 Apple 账户、iCloud Drive 和炊记权限、网络与空间。失败时保留待备份状态，应用运行或再次打开时自动重试，无需手动刷新。iOS 不保证强制退出后仍继续执行应用任务。切换账户后需重新开启开关。</p></article><article><h2>分享、照片与备份文件</h2><p>分享先生成图片并预览，再选择系统分享目标。备份与恢复位于设置页，可保存 .cuijibackup 文件，或从文件 App、AirDrop 打开。文件内含文字与原始照片，恢复上限为 150 MB。也可以在其他 App 的分享菜单中选择炊记，接收文字和图片，返回炊记后自动添加一道菜。网页对接支持 cuiji://share，完整单菜品文件使用 .cuijidish，重复分享允许新增同名菜品。 设置 → 偏好 → 署名，可填写最多8个字。名字显示在分享图片左上角。</p></article><article><h2>联系开发者</h2><p>通过下方 GitHub Issues 提交问题或建议，附上应用版本、系统版本和复现步骤即可。请不要上传私人照片、菜谱、账号信息或完整备份文件。开发者：liunangit。</p></article></section><a class="button contact" href="https://github.com/liunangit/cuiji-pages/issues">GitHub Issues →</a><p class="note"><a href="share-protocol.html">菜品分享协议 / Share protocol / 共有仕様</a></p></main><footer>© 2026 liunangit · 炊记</footer><script src="assets/site.js"></script></body></html>

diff --git a/index.html b/index.html
@@ -1,1 +1,1 @@
-<!doctype html><html lang="zh-Hans"><head><meta charset="UTF-8"><meta name="viewport" content="width=device-width, initial-scale=1"><meta name="description" content="炊记 — 记录自己的菜品与做法。产品介绍、隐私政策与技术支持。"><title>记下拿手菜， 留住自己的做法。 · 炊记</title><link rel="icon" href="assets/icon.png"><link rel="stylesheet" href="assets/style.css"></head><body data-page="index"><header><a class="brand" href="index.html"><img src="assets/icon.png" width="44" height="44" alt=""><span id="brand">炊记</span></a><nav aria-label="页面导航"><a href="index.html">产品</a><a href="privacy.html">隐私</a><a href="support.html">支持</a></nav><select aria-label="语言 / Language / 言語"><option value="zh">中文</option><option value="en">English</option><option value="ja">日本語</option></select></header><main><div class="intro"><p class="eyebrow">一本自己的厨房笔记</p><h1>记下拿手菜，<br>留住自己的做法。</h1><p class="lead">一张照片，几行笔记。用量、火候和摸索出来的小心得，都留在自己的菜谱里。下次想做，再翻开。</p><p class="meta">iPhone · iPad · iPhone Duo / iOS 17+ / 中文 · English · 日本語</p></div><section class="screenshots" aria-label="App 界面"><img loading="lazy" width="1206" height="2622" src="assets/screenshots/zh-home.png" alt="菜谱首页"><img loading="lazy" width="1206" height="2622" src="assets/screenshots/zh-recipe.png" alt="一道菜的做法"><img loading="lazy" width="1206" height="2622" src="assets/screenshots/zh-settings.png" alt="简洁的设置与备份"></section><section class="content"><article><h2>照片与文字，恰到好处</h2><p>记录成品或过程照片，把配料、步骤和心得写在一处。主页用小图浏览，详情安静地阅读。</p></article><article><h2>想到就说出来</h2><p>按住说话时实时转文字，松开后直接校正。设备支持时仅使用本机识别，不保存录音，不切换到云端识别。</p></article><article><h2>自己的做法，随时找回</h2><p>搜索菜名或做法中的关键词，快速找回笔记。编辑同一道菜，不必重复记录。</p></article><article><h2>让一道菜被看见</h2><p>将菜名、照片与完整做法排成菜谱图片，再通过系统分享面板分享。长文会自动分页。 设置中的“分享署名”可填写最多8个字，名字显示在分享图片左上角的菜谱标记后；留空不显示。</p></article><article><h2>换设备，也带上菜谱</h2><p>.cuijibackup 备份把照片与文字一起打包。开启 iCloud 自动备份后，新增、编辑、删除都会更新同一份备份，其他设备开启后自动合并自己的菜谱。</p></article><article><h2>简洁，有自己的分寸</h2><p>暖纸色、克制的陶土色和清晰的阅读层次。支持深色、大字体和大屏双栏，不添加广告或社交流。</p></article></section><p class="note">目前正在准备 App Store 上架。iCloud 为单份自动备份，并非双向实时同步；也可关闭 iCloud，自行导出和导入。本机语音需设备支持对应语言。</p><p class="note"><a href="share-protocol.html">菜品分享协议 / Share protocol / 共有仕様</a></p></main><footer>© 2026 liunangit · 炊记</footer><script src="assets/site.js"></script></body></html>
+<!doctype html><html lang="zh-Hans"><head><meta charset="UTF-8"><meta name="viewport" content="width=device-width, initial-scale=1"><meta name="description" content="炊记 — 记录自己的菜品与做法。产品介绍、隐私政策与技术支持。"><title>记下拿手菜， 留住自己的做法。 · 炊记</title><link rel="icon" href="assets/icon.png"><link rel="stylesheet" href="assets/style.css"></head><body data-page="index"><header><a class="brand" href="index.html"><img src="assets/icon.png" width="44" height="44" alt=""><span id="brand">炊记</span></a><nav aria-label="页面导航"><a href="index.html">产品</a><a href="privacy.html">隐私</a><a href="support.html">支持</a></nav><select aria-label="语言 / Language / 言語"><option value="zh">中文</option><option value="en">English</option><option value="ja">日本語</option></select></header><main><div class="intro"><p class="eyebrow">一本自己的厨房笔记</p><h1>记下拿手菜，<br>留住自己的做法。</h1><p class="lead">一张照片，几行笔记。用量、火候和摸索出来的小心得，都留在自己的菜谱里。下次想做，再翻开。</p><p class="meta">iPhone · iPad · iPhone Duo / iOS 17+ / 中文 · English · 日本語</p></div><section class="screenshots" aria-label="App 界面"><img loading="lazy" width="1206" height="2622" src="assets/screenshots/zh-home.png" alt="菜谱首页"><img loading="lazy" width="1206" height="2622" src="assets/screenshots/zh-recipe.png" alt="一道菜的做法"><img loading="lazy" width="1206" height="2622" src="assets/screenshots/zh-settings.png" alt="简洁的设置与备份"></section><section class="content"><article><h2>照片与文字，恰到好处</h2><p>记录成品或过程照片，把配料、步骤和心得写在一处。主页用小图浏览，详情安静地阅读。</p></article><article><h2>想到就说出来</h2><p>按住说话时实时转文字，松开后直接校正。设备支持时仅使用本机识别，不保存录音，不切换到云端识别。</p></article><article><h2>自己的做法，随时找回</h2><p>搜索菜名或做法中的关键词，快速找回笔记。编辑同一道菜，不必重复记录。</p></article><article><h2>让一道菜被看见</h2><p>将菜名、照片与完整做法排成菜谱图片，再通过系统分享面板分享。长文会自动分页。 设置中的“署名”可填写最多8个字，名字显示在分享图片左上角的菜谱标记后；留空不显示。</p></article><article><h2>换设备，也带上菜谱</h2><p>.cuijibackup 备份把照片与文字一起打包。开启 iCloud 自动备份后，新增、编辑、删除都会更新同一份备份，其他设备开启后自动合并自己的菜谱。</p></article><article><h2>简洁，有自己的分寸</h2><p>暖纸色、克制的陶土色和清晰的阅读层次。支持深色、大字体和大屏双栏，不添加广告或社交流。</p></article></section><p class="note">目前正在准备 App Store 上架。iCloud 为单份自动备份，并非双向实时同步；也可关闭 iCloud，自行导出和导入。本机语音需设备支持对应语言。</p><p class="note"><a href="share-protocol.html">菜品分享协议 / Share protocol / 共有仕様</a></p></main><footer>© 2026 liunangit · 炊记</footer><script src="assets/site.js"></script></body></html>
